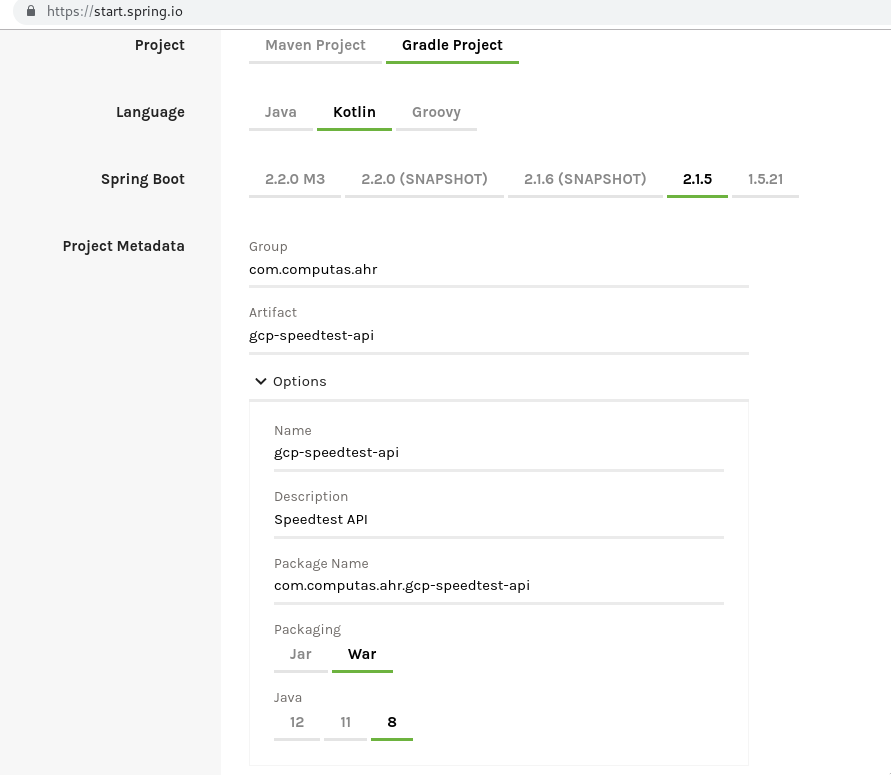
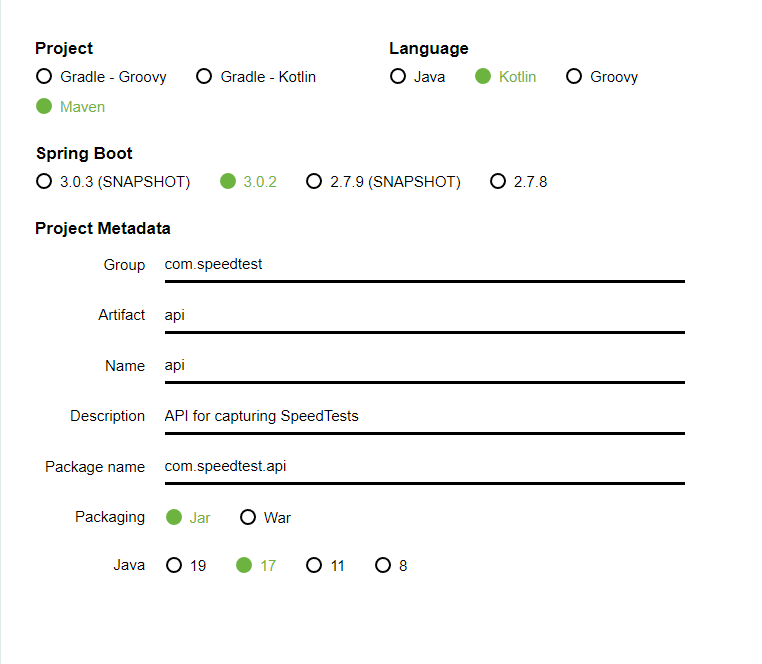
GCP - Update API to use cloud run

diff --git a/gcp/love-the-smell-of-http.md b/gcp/love-the-smell-of-http.md
@@ -4,7 +4,7 @@ _This time we'll start with the API. The GCP Speedtest API application is an HTT
 
 Suggested implementation
 ------------------------
-We suggest that you implement the Speedtest API as a GCP Appengine Standard Java app using Spring Boot and Spring Cloud. 
+We suggest that you implement the Speedtest API as a cloud run using Spring Boot and Spring Cloud. 
 The [reference application](https://github.com/cx-cloud-101/gcp-speedtest-api) is implemented using Kotlin and Maven as the build tool, you may choose Java and/or Gradle if you prefer.
 
 ### API
@@ -58,45 +58,17 @@ Getting Started
 ---------------
 Use [Spring Initializr](https://start.spring.io/) to generate your project.
 
-1. Select setup of build tool and language. Our examples use Kotlin and Maven, but you can choose between Java or Kotlin and Gradle or Maven if you prefer something else. Notice the selections in **bold**, especially **jar** packaging.![](images/create-project-1b.png)
+1. Select setup of build tool and language. Our examples use Kotlin and Maven, but you can choose between Java or Kotlin and Gradle or Maven if you prefer something else. Notice the selections in **bold**, especially **jar** packaging. \
+![](images/create-project-1.png)
 
-1. Add dependencies: `Spring Web` and `GCP Messaging` ![](images/create-project-2b.png)
+2. Add dependencies: `Spring Web` and `GCP Messaging` \
+![](images/create-project-2b.png)
 
-1. Generate project and unzip the downloaded archive. Copy the unzipped `api` folder (whole folder) into your git repo folder.
+3. Generate project and unzip the downloaded archive. Copy the unzipped `api` folder (whole folder) into your git repo folder.
 
-1. Open IntelliJ, click "Open", and select your git repo folder, containing the unzipped files.
+4. Open IntelliJ, click "Open", and select your git repo folder, containing the unzipped files. \
     ![](images/open-project.png)
 
-1. Modify `dependencies` in `pom.xml` so that Maven can find the appengine plugin.
-   ```xml
-    <dependency>
-	      <groupId>com.google.cloud.tools</groupId>
-	      <artifactId>appengine-maven-plugin</artifactId>
-	      <version>2.4.1</version>
-    </dependency>
-   ```
-
-1. Modify `pom.xml` to invoke the appengine plugin (Add the last line to the `plugins`-section). Remember to replace PROJECT_ID with your GCP project id.
-    ```xml
-    			<plugin>
-				<groupId>com.google.cloud.tools</groupId>
-				<artifactId>appengine-maven-plugin</artifactId>
-				<version>2.4.1</version>
-				<configuration>
-					<projectId>PROJECT_ID</projectId>
-					<version>GCLOUD_CONFIG</version>
-				</configuration>
-			</plugin>
-    ```
-_You can find the project ID for your project by looking at the "Project info" tile shown on [console.cloud.google.com/home](https://console.cloud.google.com/home)._
-
-![](images/project-info-gcp.png)
-
-1. Create the folder `/src/main/appengine/`. Then add the following file in that folder:
-`app.yaml`
-```yaml
-runtime: java11
-```
 
 Testing the API
 ---------------
@@ -149,41 +121,56 @@ If the API started successfully, you should be able to open [http://localhost:80
 
 ![](images/hello-speedtest.png)
 
-### Deploy to GCP
-
-If everything went well, you're ready to deploy the API to GCP.
-
-Start by creating an App Engine Application in your GCP Project by running the following command in a terminal, and selecting `europe-west` as the region.
-
-![](images/create-app-1.png)
-
-Navigate to your gcp-speedtest-api/api repo folder, and use maven to deploy your app to appengine.
-
+### Secure it!
+You're nearly ready to deploy to cloud run! We want the cloud run application to be invoked by any user.
+When you create a cloud run it will use a default service account to gain access to gcp resources. This default service
+account has editor access to your gcp projects which gives it access to quite a lot of resources. 
+Following the security principle of least privilege we want to use a service account created only for this cloud run
+with the minimum requirement it needs. To create a service account run:
 ```
-$ gcp-speedtest-api/api> mvn clean install appengine:deploy
-[INFO] Scanning for projects...
-[INFO] 
-[INFO] -------------------------< com.speedtest:api >--------------------------
-[INFO] Building api 0.0.1-SNAPSHOT
-[INFO] --------------------------------[ jar ]---------------------------------
+gcloud iam service-accounts create some-account-name --display-name="My Service Account"
+```
+We can then deploy our cloud run with this service account.
 
-// A lot more output omitted here
+### Deploy to Cloud Run
 
-[INFO] ------------------------------------------------------------------------
-[INFO] BUILD SUCCESS
-[INFO] ------------------------------------------------------------------------
-[INFO] Total time:  03:42 min
-[INFO] Finished at: 2021-11-09T16:40:20+01:00
-[INFO] ------------------------------------------------------------------------
+If everything went well, you're ready to deploy the API to Cloud Run.
+We want to build the docker image and deploy it as a cloud run.
+All of this can be done for us using cloud build! 
+In the root of your project create a file called cloudbuild.yaml. Here we will define all the steps that we want the build to execute. 
+The first step is to create a docker image. Add the following to the cloud build file:
+```
+steps:
+  - name: 'gcr.io/cloud-builders/docker'
+    args: ['build', '-t', 'gcr.io/$PROJECT_ID/speedtest-api', '.']
+images: ['gcr.io/$PROJECT_ID/speedtest-api']
+```
+To start your build run:
+```
+gcloud builds submit .
+```
+If this runs successfully you should be able to see the image in the container registry under the folder speedtest-api.
+Next step is to deploy it to cloud run. To do this we need the gcloud image from cloud build and then add the appropriate arguments to the step.
+```
+steps:
+  - name: 'gcr.io/cloud-builders/docker'
+    args: ['build', '-t', 'gcr.io/$PROJECT_ID/speedtest-api', '.']
+    - name: 'gcr.io/google.com/cloudsdktool/cloud-sdk'
+    entrypoint: gcloud
+    args: [ ... ]
+images: ['gcr.io/$PROJECT_ID/speedtest-api']
 ```
 
-_If you get an error saying that `JAVA_HOME` is not set, and that java is missing from `PATH`, you'll need to do both. `JAVA_HOME` should be the folder where you installed the Java SE 11 JDK. To the `PATH` variable, you'll need to add the `\bin` folder under the `JAVA_HOME` folder._
+The args will be similar to writing a gcloud run deploy in the terminal, so try to add the proper arguments to deploy it.
+Consider getting the proper image, deploying in the correct region, and setting the cloud run service account that you
+created earlier. Hint you can use gcloud --help to see the options that are available.
 
-If everything worked, you should be able to open [https://your-project-id.ew.r.appspot.com/hello/speedtest](https://your-project-id.ew.r.appspot.com/hello/speedtest), replacing "your-project-id" with the ID of your GCP project.
+When you've added the arguments you should be ready for another submit. 
+If this is successful you should get a cloud run service under the cloud run tab in gcp. By clicking on it you should be
+able to see the url where you can post you request.
 
-![](images/gcp-hello-speedtest.png)
-
-You can also take a look at [console.cloud.google.com/appengine](https://console.cloud.google.com/appengine) to view metrics and trace logs about your newly created App Engine Application.
+![](images/cloud-run-url.png) \
+By adding /hello/speedtest to the url you should be able to make a call to the api.
 
 Implementing gcp-speedtest-api
 ------------------------------
@@ -232,7 +219,7 @@ Test the partially implemented /speedtest endpoint by using Postman, or a simila
 }
 ```
 
-Now it's up to you to extend the /speedtest endpoint so it will accept a full speedtest result. When you're done, it should be able to receive a JSON request body as shown below:
+Now it's up to you to extend the /speedtest endpoint, so it will accept a full speedtest result. When you're done, it should be able to receive a JSON request body as shown below:
 
 ```json
 {
@@ -275,8 +262,12 @@ Our Spring Boot project already includes the required packages to publish messag
 $> gcloud pubsub topics create speedtest
 Created topic [projects/you-project-id/topics/speedtest].
 ```
-
-Spring will automatically inject a bean into the `pubSub` field in the class `SpeedTestResource` below. You can achieve the same in Java by creating a class with the field `private final PubSubTemplate pubSub;` and a constructor that has a `PubSubTemplate` parameter that is assigned to the field. With this in mind, we can extend or API so it sends publishes speedtests to our Pub/Sub topic.
+If we want our cloud run to be able to publish messages to this topic the proper IAM role must be added to the service account that we've created.
+This can be done by running:
+```
+gcloud pubsub topics add-iam-policy-binding <TOPIC_NAME> --member='serviceAccount:some-account-name@<PROJECT_ID>.iam.gserviceaccount.com' --role='roles/pubsub.publisher'
+```
+Spring will automatically inject a bean into the `pubSub` field in the class `SpeedTestResource` below. We can now extend the API, so it sends publishes speedtests to our Pub/Sub topic.
 ```kotlin
 @RestController
 @RequestMapping("/speedtest")
@@ -301,7 +292,7 @@ Now we can test if we're able to publish events to GCP. Start the API locally, a
 
 ![](images/pub-sub-hello.png)
 
-If everything went well, you can publish the updated API to GCP with `mvn clean install appengine:deploy` in the folder`/gcp-speedtest-api/api`, and test that it works there as well. Check in your changes and/or push them to github if you feel like doing that.
+If everything went well, you can publish the updated API to GCP with `gcloud builds submit .` in the folder`/gcp-speedtest-api/api`, and test that it works there as well. Check in your changes and/or push them to github if you feel like doing that.
 
 You have an API on GCP. What now?
 ---------------------------------

diff --git a/gcp/index.md b/gcp/index.md
@@ -4,7 +4,7 @@
 Index
 -----
 1. [Love the smell of HTTP in the morning](love-the-smell-of-http)
-2. [Writing all the events](writing-all-the-events)
+2. [Writing all the events](writing-all-the-events-python)
 3. [Return of the Logger](return-of-the-logger)
 4. [Analyzing it all](analyzing-it-all)
 5. [Triggering Speedtests](triggering-speedtests)
